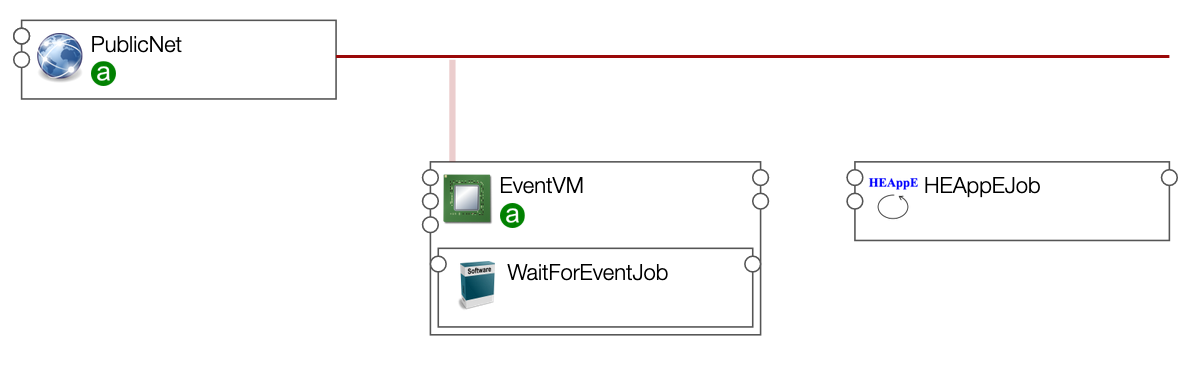
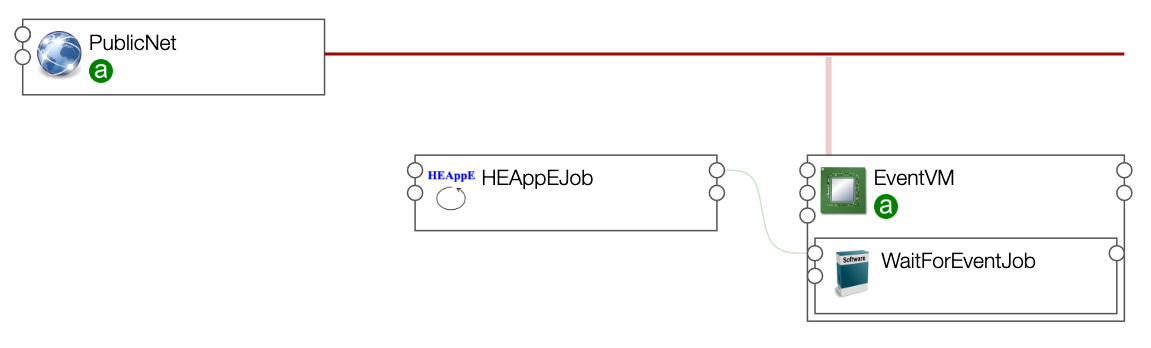
Updated event example to compute tasks params at runtime

Changed region(s): [[0.2737, 0.1437, 1.0, 0.9483], [0.0, 0.0575, 0.3041, 0.2874], [0.0304, 0.0287, 0.2737, 0.0575]]

diff --git a/examples/applications/eventTrigger/README.md b/examples/applications/eventTrigger/README.md
@@ -12,14 +12,32 @@ This example implements such a workflow, with :
 A graphical view of the application template shows:
 * a cloud compute instance `EventVM`
 * a component `WaitForEventJob` run on this compute instance, that will wait for an event
-* a HEAppE job
+  and once this event is received, will compute tasks input parameters of the HEAppE job that will run next
+* a HEAppE job in relationship with `WaitForEventJob`.
 
 ![App template](images/apptemplate.png)
 
+This HEAppE job is of type [org.heappe.nodes.JobWithRuntimeTaskParameters](https://github.com/lexis-project/yorc-heappe-plugin/blob/v1.0.2/tosca/heappe-types.yaml#L257-L266).
+It has the requirement to be associated with a component that will compute and provide the tasks parameters and value
+to use by this Job.
+(while this other type of HEAppE job `org.heappe.nodes.Job` has these values defined as properties that can't be changed at runtime).
+
+The component `WaitForEventJob` implements the capability [org.heappe.capabilities.TasksParametersProvider](https://github.com/lexis-project/yorc-heappe-plugin/blob/v1.0.2/tosca/heappe-types.yaml#L429-L438) as expected by the associated HEAppE job,
+and provides an attribute `tasks_parameters` that it computes to provide the event value in a parameter of a task of this HEAppE job.
+ 
 For this example, the progran launched by the job `WaitForEventJob` to wait for an event is
-a script avaiable at [../../components/events/scripts/wait_and_get_file_content.sh](../../components/events/scripts/wait_and_get_file_content.sh).
+a script available at [../../components/events/scripts/wait_and_get_file_content.sh](../../components/events/scripts/wait_and_get_file_content.sh).
 It loops on downloading a file from a URL provided by the user in input of the Application,
 until the file is not empty. When the file is not empty, the script prints it content and exits.
+The ansible playbook [./../components/events/playbooks/check_event_received.yaml](./../components/events/playbooks/check_event_received.yaml) run regulary by the orchestrator to monitor the status of `WaitForEventJob` will then detect an event was received
+and compute the `tasks_parameters` attribute to provide to the associated HEAppE job.
+
+The HEAppE job expects this tasks_parameters attribute value to be a base64-encoded string of a json value,
+providing a map of task name with associated parameter values. For example:
+```json
+{"FirstTask": [{"CommandParameterIdentifier": "param1", "ParameterValue": "value1"}]}
+```
+
 The job `WaitForEventJob`, that submitted the execution of this script, will then be done.
 
 This application template is providing a `Run` workflow that will:
@@ -29,9 +47,11 @@ This application template is providing a `Run` workflow that will:
   * monitor the job execution:
     * this job will be running while the event is not received (workflow step `run` in the mage below)
     * the job will be completed when an event is received
+    * a value for `tasks_parameters` attribute will be compute
   * once the job `WaitForEventJob` is completed, ie. once an event was received, the workflow executes in parallel:
     * the deletion of the cloud compute instance `EventVM`
-    * the submission and monitoring og a HEAppE job on a HPC cluster
+    * the submission of a HEAppE job on a HPC cluster, using in tasks pamaters the value computed at runtime by `WaitForEventJob`,
+      and the monitoring of this job execution.
 
 A graphical view of this workflow shows:
 
